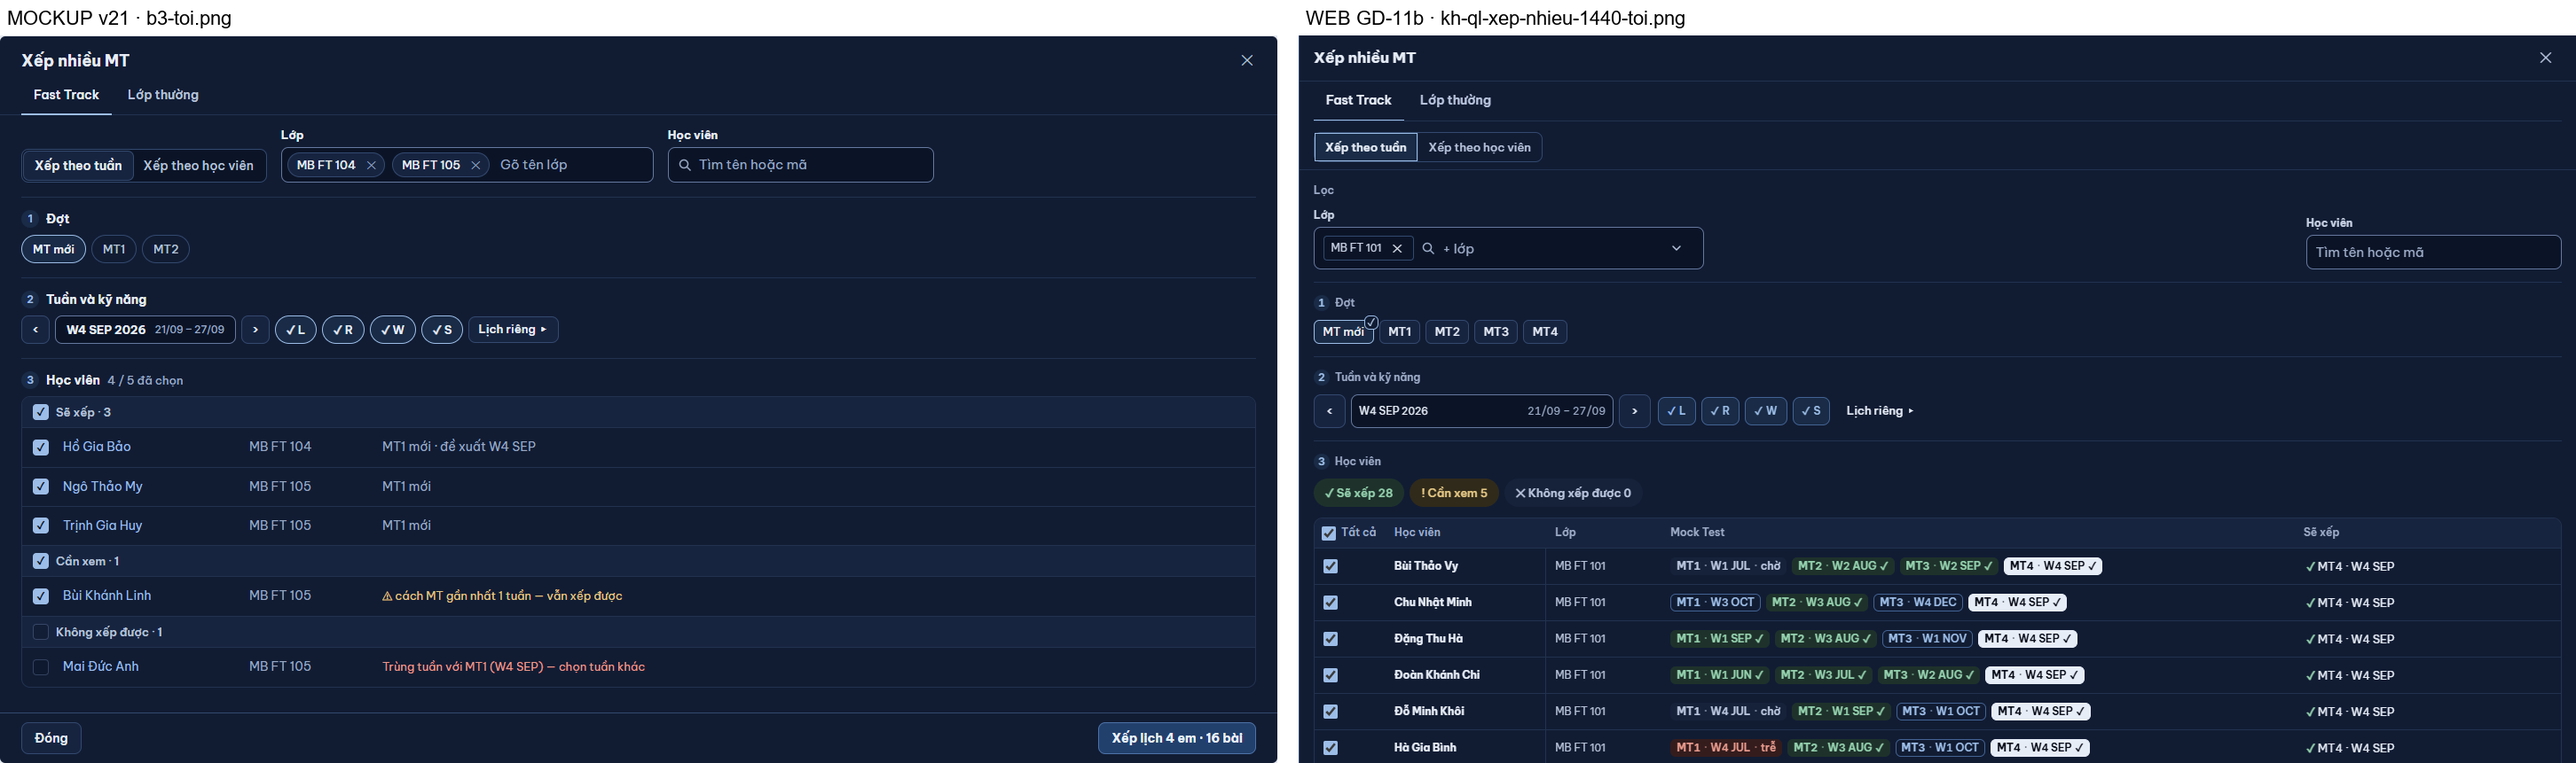
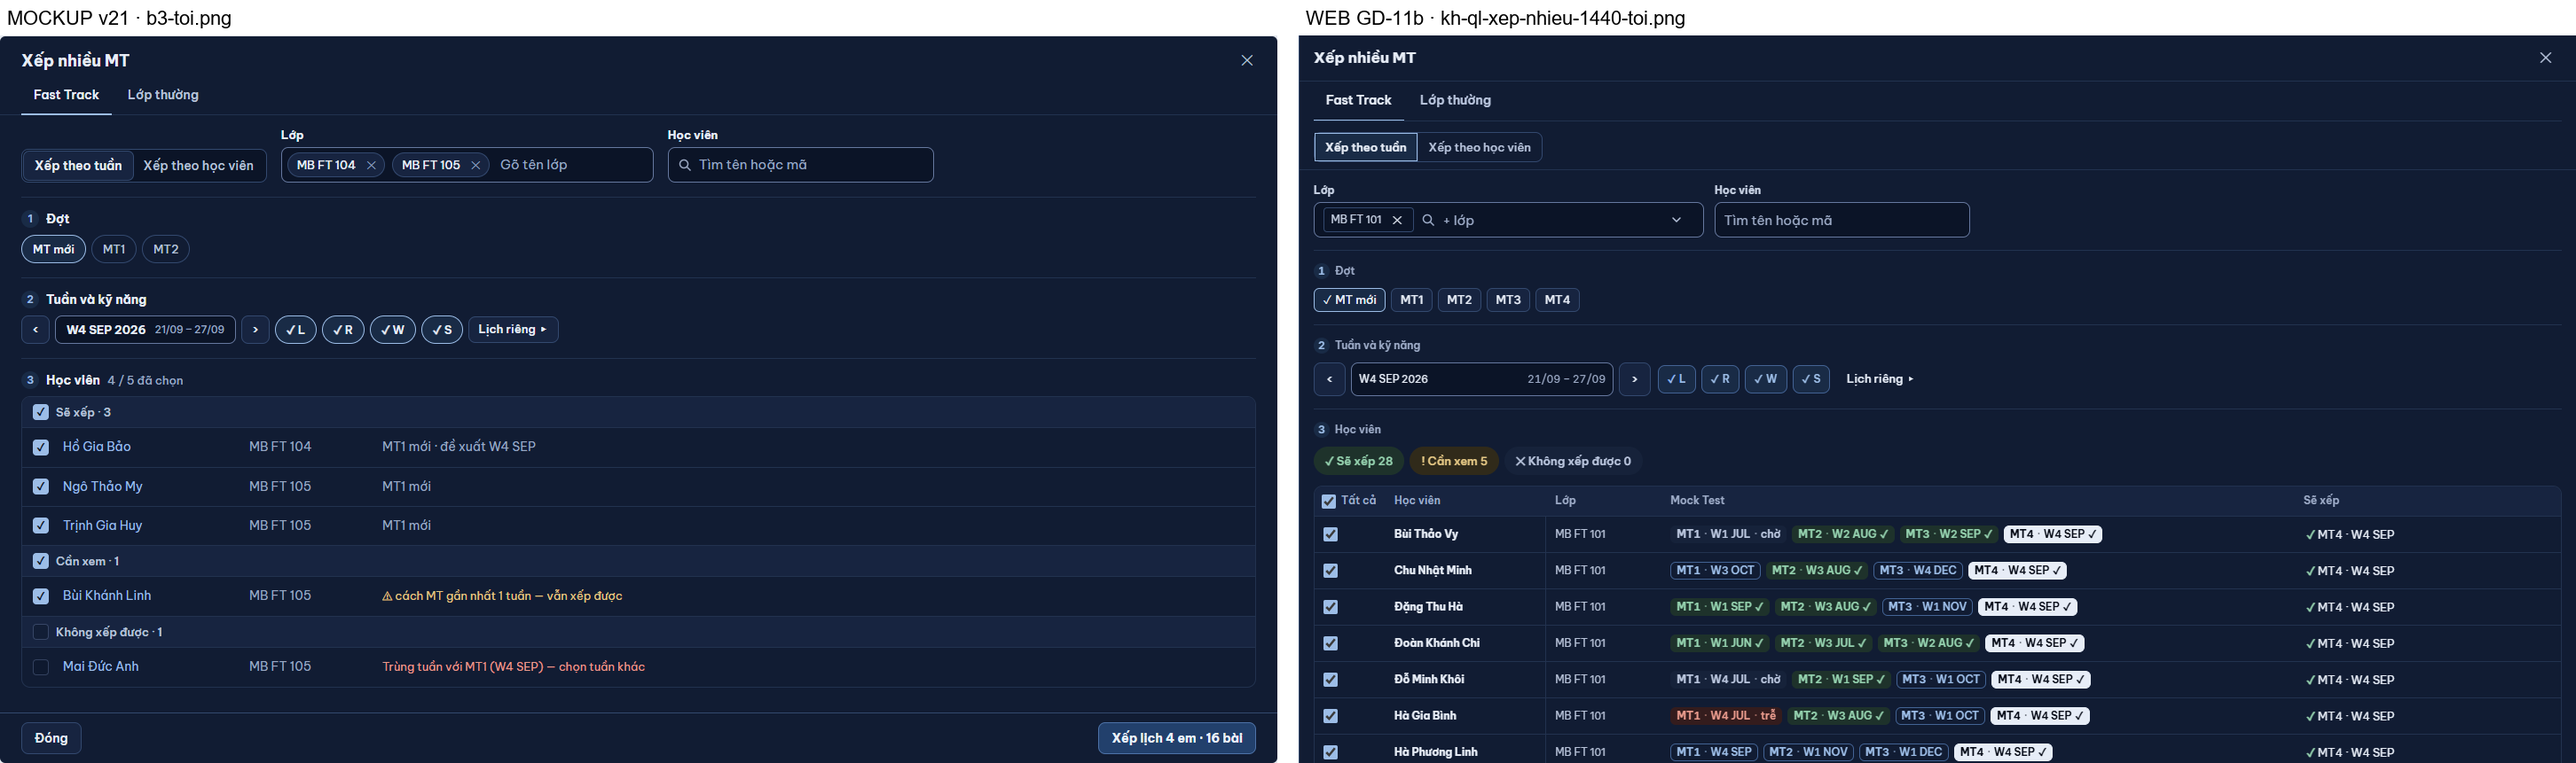
GD-11b: chip Đợt chọn chuẩn (✓ trong chip), hàng Lớp · Học viên cùng hàng, bỏ nhãn Lọc

diff --git a/web/src/modules/test/keHoach/NganXepLichMt.tsx b/web/src/modules/test/keHoach/NganXepLichMt.tsx
@@ -239,13 +239,14 @@ function XepTheoTuan({ chiNhanhDau, lopDs, lopMoSan, onClose, onDone, tabs }: Ng
       chan={{ huy: { nhan: t('Đóng'), onClick: onClose }, chinh: nutChinh,
         /* 6c (lỗi 5): lựa chọn đã chỉnh tay (tuần riêng, đợt / thi lại từng em) chưa lưu → ✕ hỏi. Tuần chung, tick là mặc định tự điền. */
         daSua: Object.keys(rieng).length > 0 || Object.keys(dotTheoEm).length > 0 || Object.keys(thiLai).length > 0 }}>
-      <Khoi tieuDe={t('Lọc')}>
-        <div className="flex flex-wrap items-end gap-2">
+      {/* GD-11b (mockup ⑦ B3): không nhãn "Lọc" thừa — Lớp và Học viên cùng một hàng, cùng cao 40, sát nhau. */}
+      <section className="pt-3.5">
+        <div className="flex flex-wrap items-end gap-3">
           <BranchFilter branchId={branchId} onBranch={setBranchId} />
-          <div className="min-w-0 flex-1">
+          <div className="min-w-0 w-full sm:w-[440px]">
             <span className="mb-1 block text-[12px] font-bold text-slate-200">{t('Lớp')}</span>
             {/* GD-11b (mockup ⑦ B3): MỘT ô chọn có tìm — chip lớp đã chọn nằm TRONG ô, gõ tên lớp ngay sau chip. */}
-            <div role="group" aria-label={t('Lớp đã chọn')} className="field flex min-h-[40px] max-w-[440px] flex-wrap items-center gap-1.5 !py-1 focus-within:border-[color:var(--accent)]">
+            <div role="group" aria-label={t('Lớp đã chọn')} className="field flex min-h-[40px] flex-wrap items-center gap-1.5 !py-1 focus-within:border-[color:var(--accent)]">
               {lopChon.map((id) => {
                 const l = lopFT.find((x) => x.id === id) ?? lopTheoChiNhanh.find((x) => x.id === id);
                 return (
@@ -265,16 +266,16 @@ function XepTheoTuan({ chiNhanhDau, lopDs, lopMoSan, onClose, onDone, tabs }: Ng
           </div>
           <label className="block w-full sm:w-72">
             <span className="mb-1 block text-[12px] font-bold text-slate-200">{t('Học viên')}</span>
-            <input className="field w-full" type="search" value={tim} onChange={(e) => setTim(e.target.value)} placeholder={t('Tìm tên hoặc mã')} />
+            <input className="field h-10 w-full" type="search" value={tim} onChange={(e) => setTim(e.target.value)} placeholder={t('Tìm tên hoặc mã')} />
           </label>
         </div>
-      </Khoi>
+      </section>
 
       <Khoi so={1} tieuDe={t('Đợt')}>
         <div role="group" aria-label={t('Đợt')} className="flex flex-wrap gap-1.5">
-          <NutChon nho chon={dot === 'moi'} onClick={() => setDot('moi')}
+          <NutChon nho dauTrong chon={dot === 'moi'} onClick={() => setDot('moi')}
             title={t('Mỗi em một đợt riêng: đợt nhỏ nhất chưa có lịch của em; không có thì đợt kế tiếp.')}>{t('MT mới')}</NutChon>
-          {cot.map((n) => <NutChon key={n} nho chon={dot === n} onClick={() => setDot(n)}>MT{n}</NutChon>)}
+          {cot.map((n) => <NutChon key={n} nho dauTrong chon={dot === n} onClick={() => setDot(n)}>MT{n}</NutChon>)}
         </div>
       </Khoi>
 

diff --git a/web/src/ui/ui.tsx b/web/src/ui/ui.tsx
@@ -510,11 +510,15 @@ type NutChonProps = {
   /** Dấu góc khi đang chọn — mặc định ✓; OV-12b: số thứ tự chọn (chip nhóm nguyên nhân, 1 = chính). */
   dau?: ReactNode;
 };
-export function NutChon({ chon, onClick, children, nho, className = '', disabled, title, dau = '✓' }: NutChonProps) {
+export function NutChon({ chon, onClick, children, nho, className = '', disabled, title, dau = '✓', dauTrong = false }: NutChonProps & {
+  /** GD-11b (chip chọn chuẩn, như #1669): ✓ là CHỮ trong chip, trước tên — không ô góc lòi ra ngoài viền. Nơi khác giữ dáng cũ tới GD-18. */
+  dauTrong?: boolean;
+}) {
   return (
     <button type="button" aria-pressed={chon} onClick={onClick} disabled={disabled} title={title}
       className={`btn ${nho ? 'btn-sm' : ''} relative min-h-[44px] min-w-0 gap-1 whitespace-normal text-center leading-tight sm:min-h-0 ${chon ? CHON : ''} ${className}`}>
-      {chon && <span aria-hidden className="pointer-events-none absolute -right-1.5 -top-1.5 flex h-4 w-4 items-center justify-center rounded-md border border-[color:var(--accent)] bg-[color:var(--surface)] text-[12px] leading-none tabular-nums text-[color:var(--accent-strong)]">{dau}</span>}{children}
+      {chon && (dauTrong ? <span aria-hidden>{dau}</span>
+        : <span aria-hidden className="pointer-events-none absolute -right-1.5 -top-1.5 flex h-4 w-4 items-center justify-center rounded-md border border-[color:var(--accent)] bg-[color:var(--surface)] text-[12px] leading-none tabular-nums text-[color:var(--accent-strong)]">{dau}</span>)}{children}
     </button>
   );
 }

diff --git a/web/src/index.css b/web/src/index.css
@@ -602,7 +602,7 @@
   .o-xep-chan, .o-xep-chan:hover { border-style: solid; border-color: var(--line); background: none; color: var(--text-faint); cursor: not-allowed; }
   /* GD-11b (mockup ⑦ B2): bong lý do của nút mờ — nổi trên nút khi rê / focus / chạm, không đẩy hàng. */
   /* GD-11b (mockup ⑦ B3): ô chọn lớp nằm TRONG ô có chip — bỏ viền riêng. */
-  .oc-trong .oc { border: 0; background: none; min-height: 30px; padding-left: 2px; }
+  .oc-trong .oc { border: 0; background: none; min-height: 30px; padding-top: 0; padding-bottom: 0; padding-left: 2px; }
   .bong-nut { position: relative; display: inline-flex; }
   .bong-nut-chu { position: absolute; bottom: calc(100% + 6px); left: 50%; transform: translateX(-50%); z-index: 5; display: none; padding: 4px 8px; border-radius: 6px;
     background: var(--text); color: var(--bg); font-size: 12px; font-weight: 500; line-height: 1.3; white-space: nowrap; pointer-events: none; }

diff --git a/docs/anh/gd11b-ke-hoach-test/khop-khac.md b/docs/anh/gd11b-ke-hoach-test/khop-khac.md
@@ -68,3 +68,8 @@ Mở trang: 0 câu thêm. Khối "Lịch sử · n" của hộp đọc khi mở 
 
 ## Đo ✕ / ⋯ (hộp một kỹ năng)
 ⋯ mỗi môn so nút Xoá cạnh nó: 1440 lệch tâm 0 px (36×30), 375 lệch 0 px (44×44). ✕ đầu hộp so tên lượt: lệch tâm 0 px (1440 cao 30, 375 cao 44), cách mép phải hộp 13 px ở cả hai cỡ.
+
+## Sửa sau rà PTA (ngăn Xếp nhiều MT)
+- Chip Đợt (MT mới · MT1…): trạng thái chọn chuẩn như #1669 — viền + nền nhấn, "✓" là chữ trong chip trước tên (`NutChon dauTrong`), không còn ô ✓ góc lòi viền; cùng dáng chip kỹ năng ✓L ✓R ✓W ✓S. Đo: ✓ nằm trong chip (không phần tử nào tràn mép trên / phải), chip cao 26.
+- Hàng lọc: bỏ nhãn "Lọc" thừa; Lớp (440) và Học viên cùng một hàng, cùng đỉnh y = 188, cùng cao 40, cách nhau 12 px. `zoom-b3-loc-chip.png`.
+- [XM] mũi mở lớp: PTA chốt giữ tam giác trong PR này, đổi chung "›" ở GD-18.
